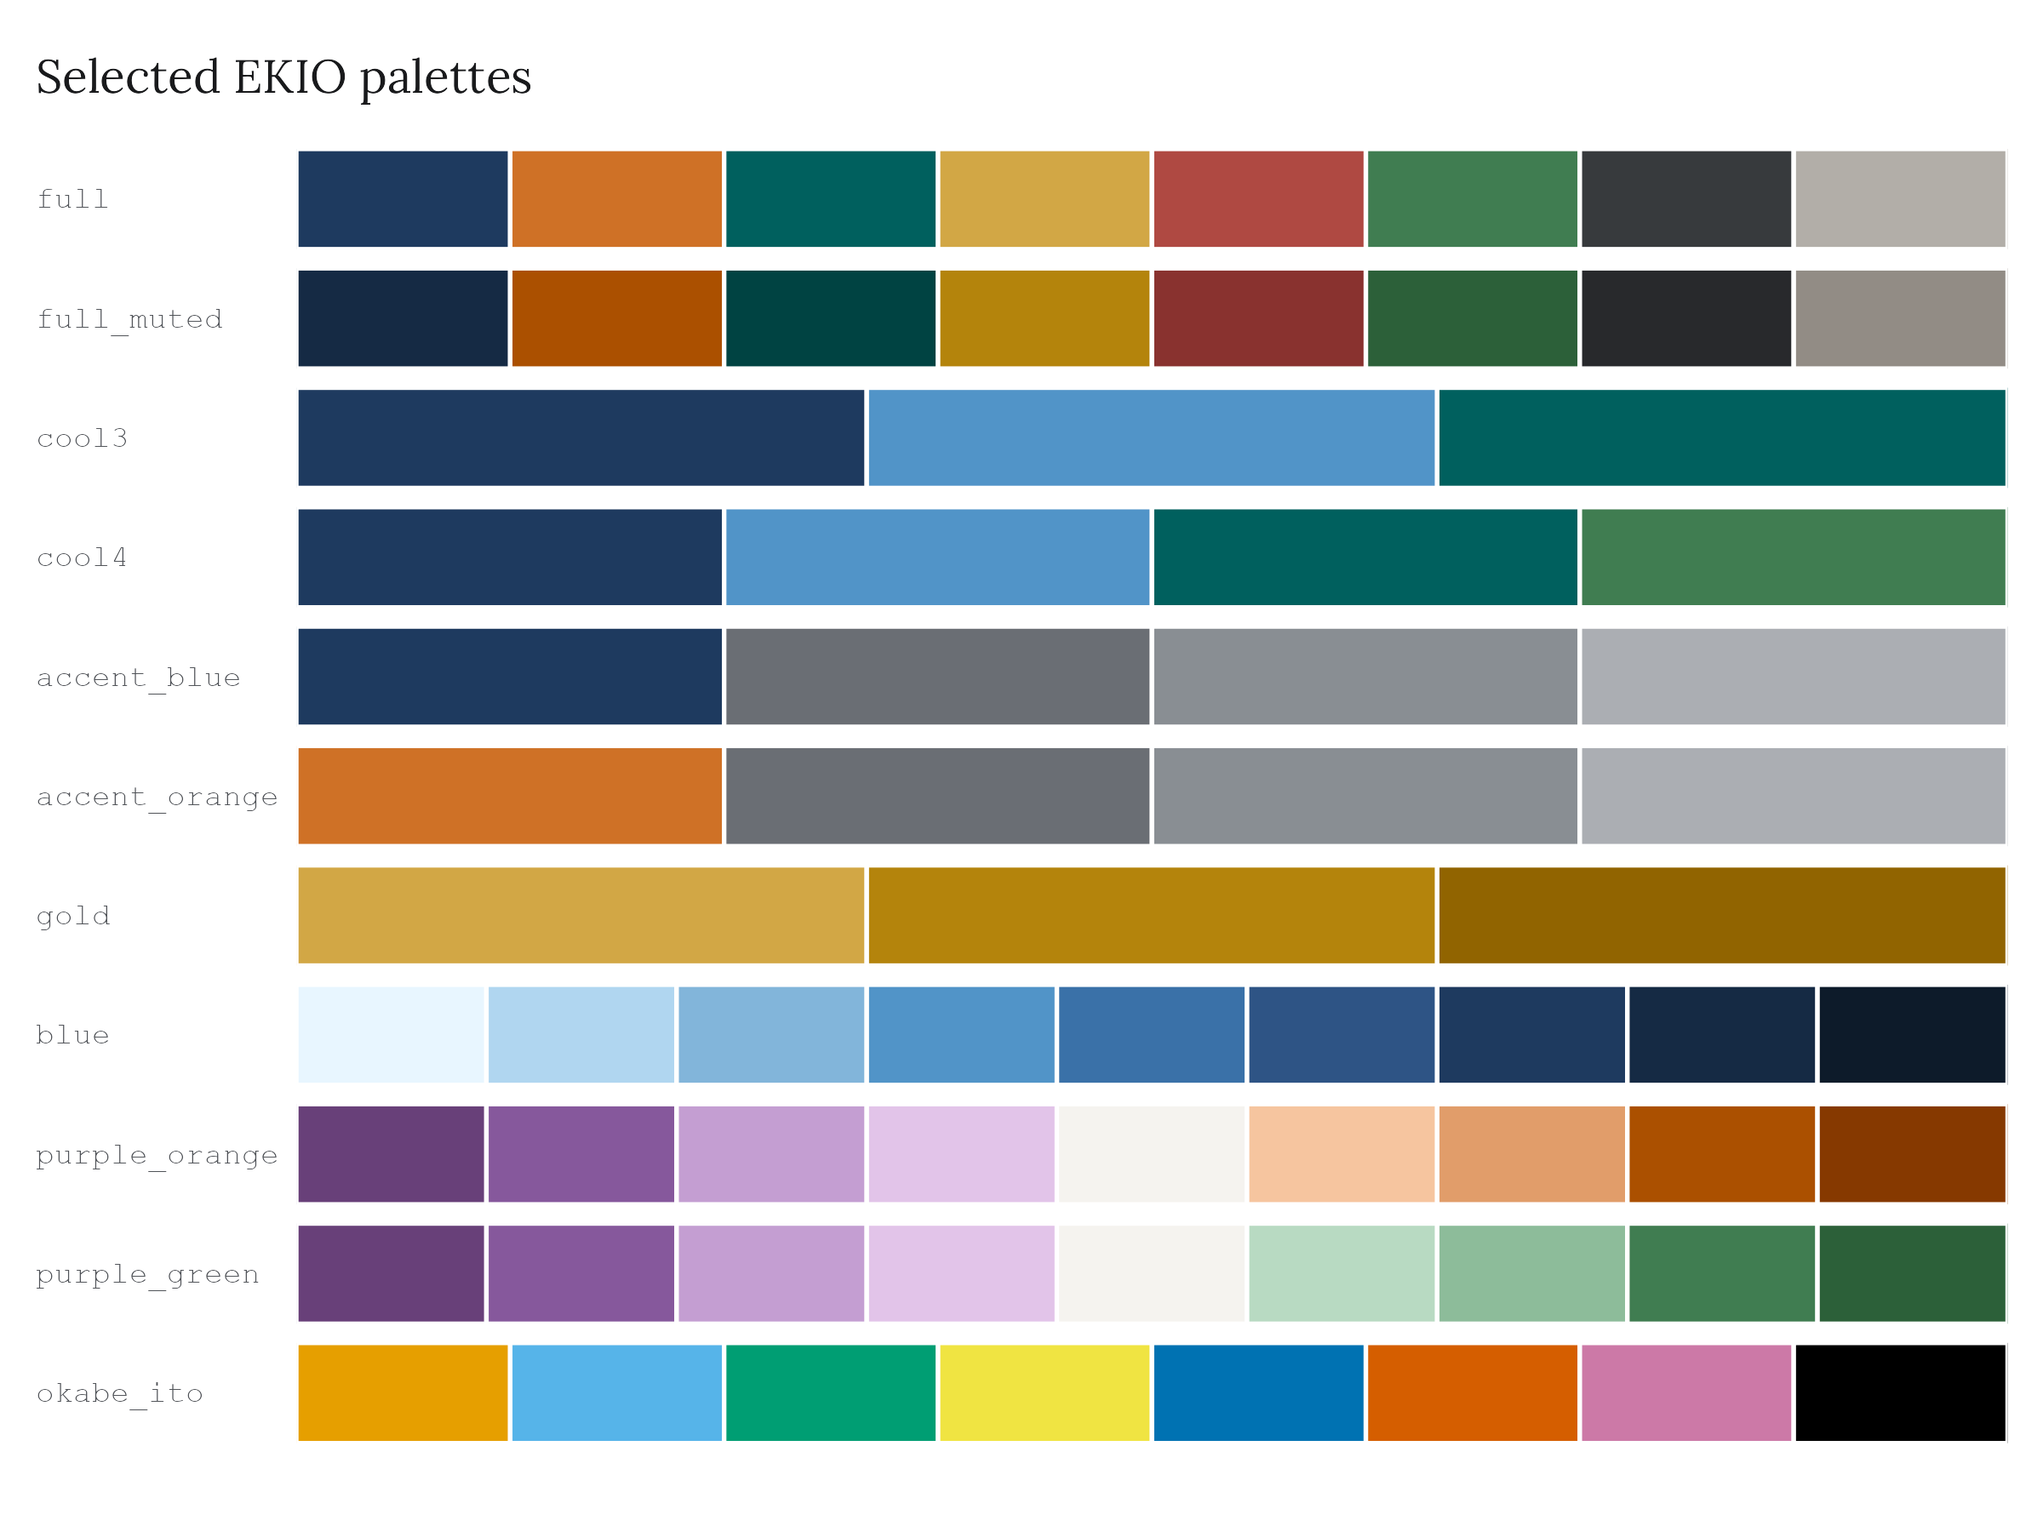
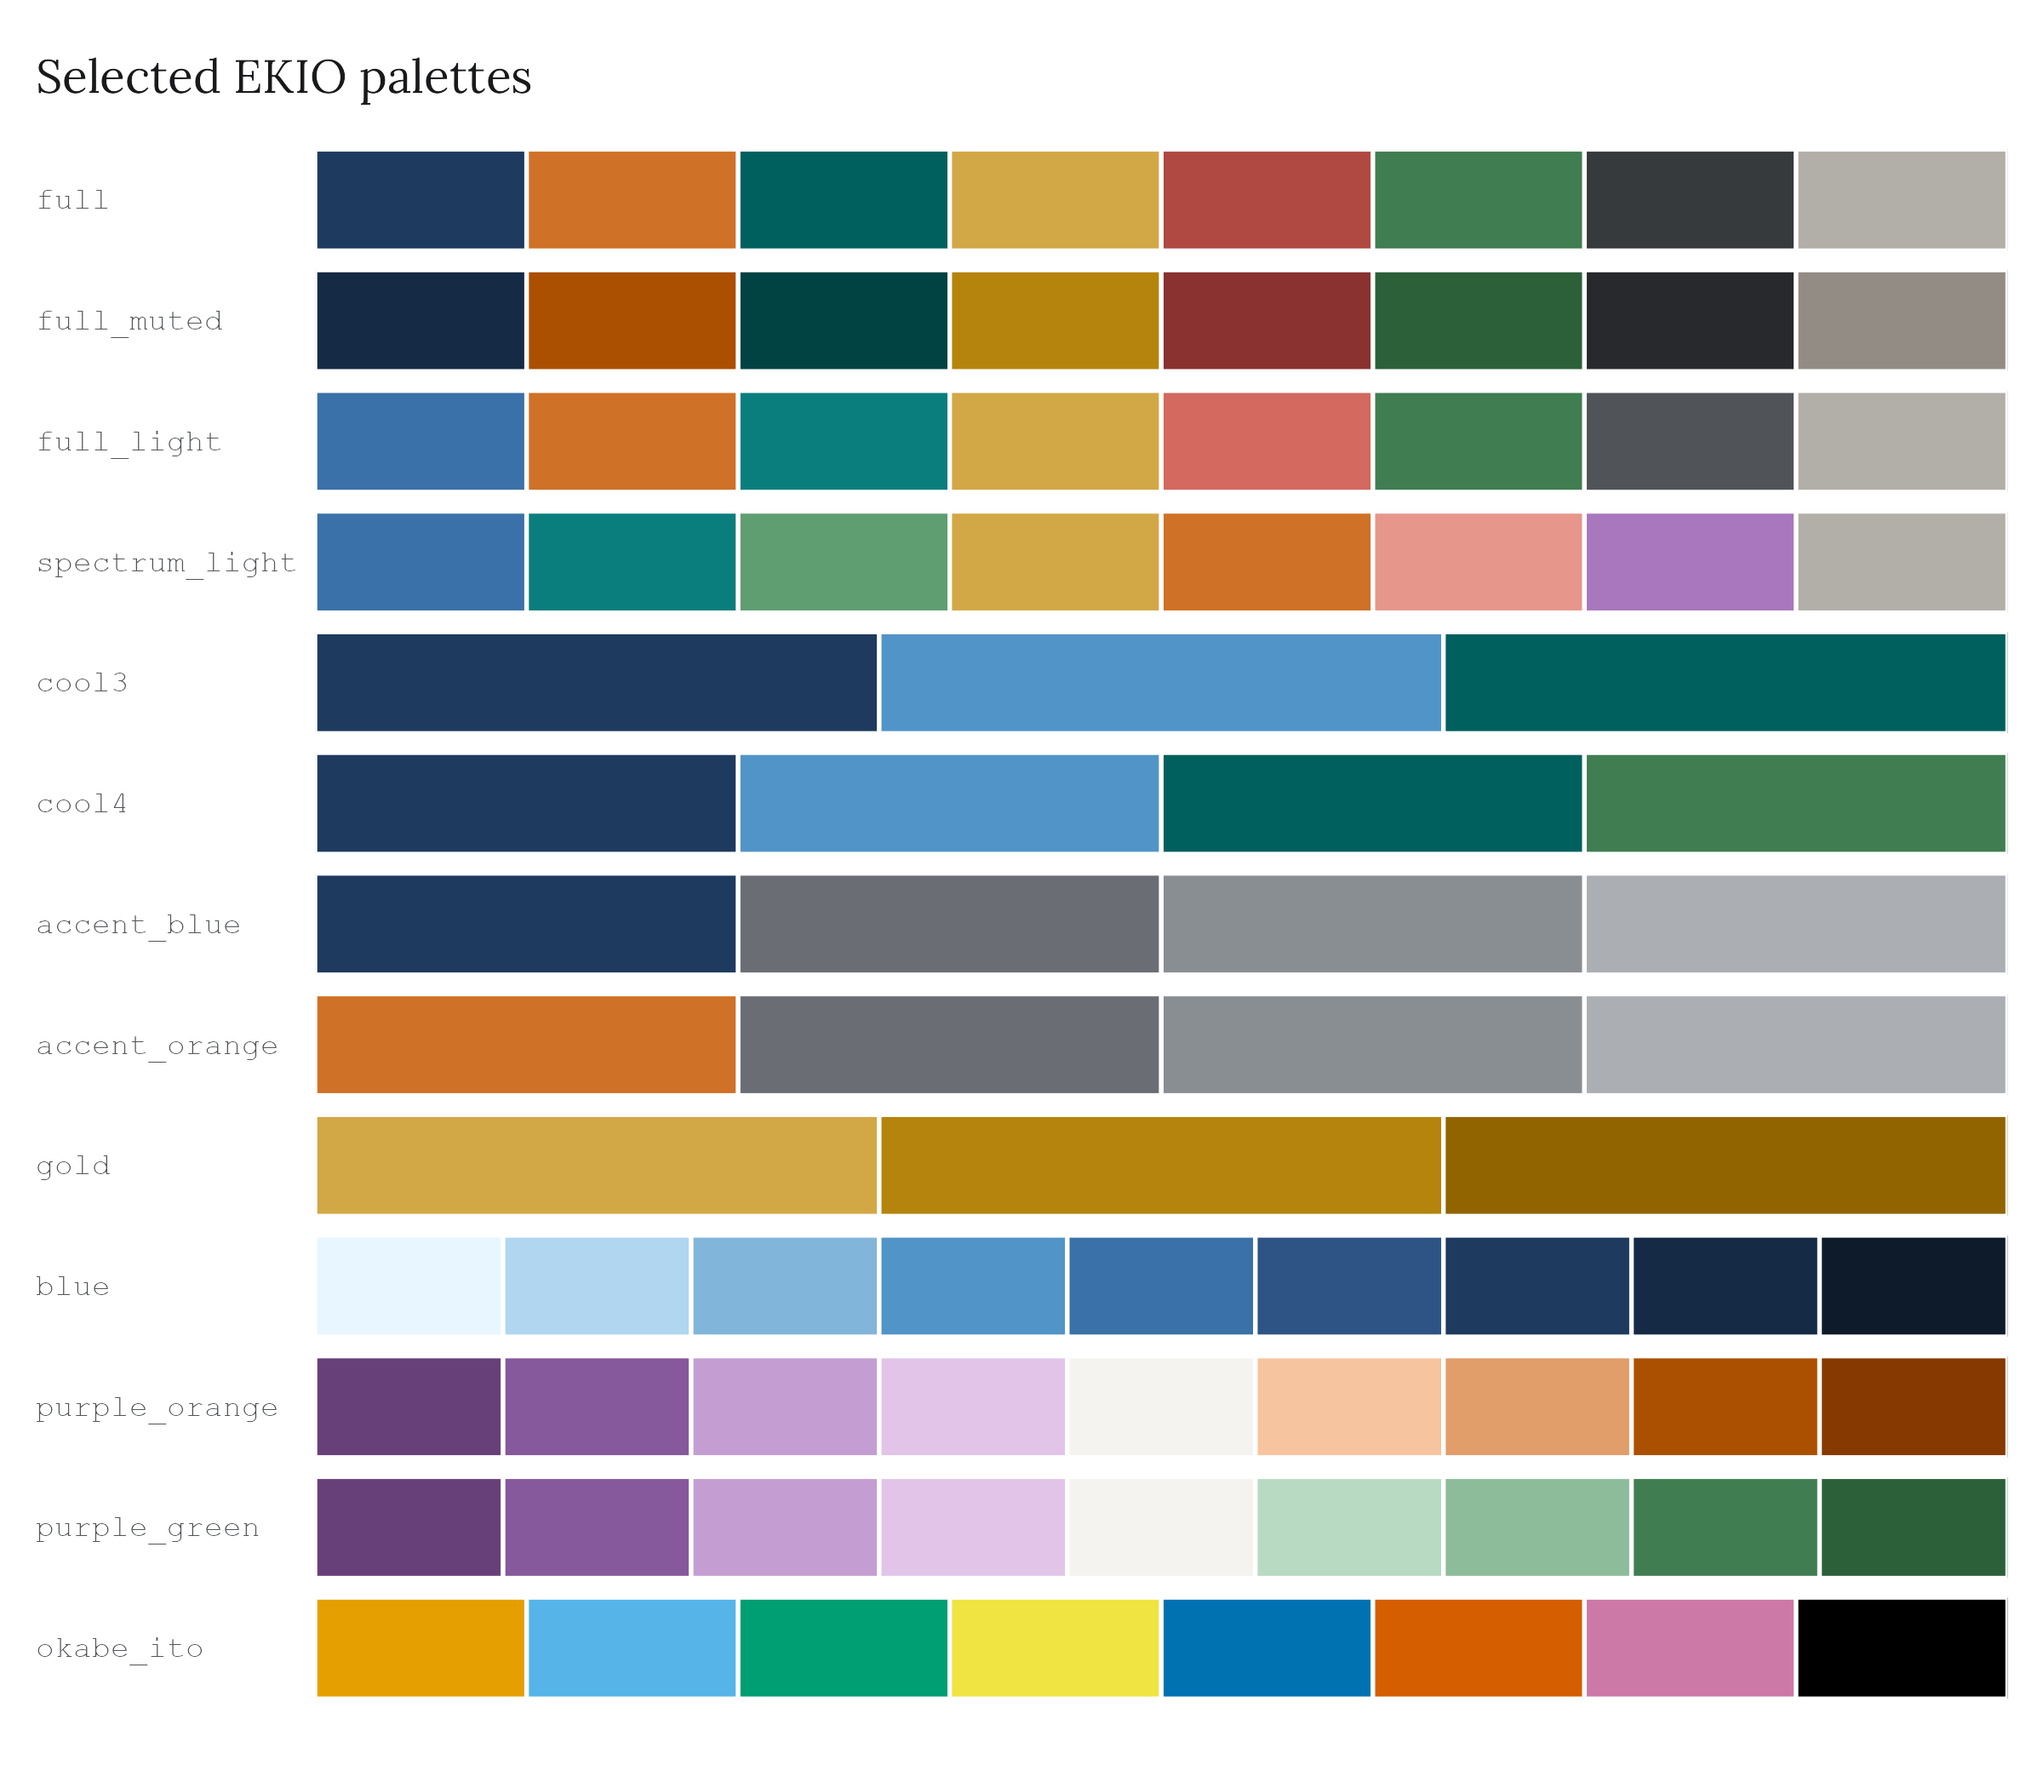
feat(palettes): add full_light and spectrum_light
`full` reads too dark in bars, boxplots and stacked areas. `full_light`
lifts its dark members and keeps its hue order; `spectrum_light` walks
the color wheel from blue to purple for ordered categories and a calmer
look. Both are built from existing scale tokens.

diff --git a/README.md b/README.md
@@ -85,10 +85,13 @@ specification, so a given shade carries the same visual weight in every
 family.
 
 Compact categorical palettes (`"cool3"`, `"cool4"`) cover small groups;
-`"full_muted"` provides a quieter eight-color alternative. Variable-size
-accent palettes keep blue or orange prominent against two to six series.
-The named `"ekio_brand"` palette collects EKIO identity colors for brand
-assets; it is not intended for general data visualization.
+`"full_muted"` provides a quieter eight-color alternative. For bars,
+boxplots, and areas, `"full_light"` lightens `"full"`, and
+`"spectrum_light"` orders light colors around the color wheel.
+Variable-size accent palettes keep blue or orange prominent against two
+to six series. The named `"ekio_brand"` palette collects EKIO identity
+colors for brand assets; it is not intended for general data
+visualization.
 
 ``` r
 ekio_pal()

diff --git a/NEWS.md b/NEWS.md
@@ -16,6 +16,11 @@
 
 ## New features
 
+* Added the `full_light` and `spectrum_light` categorical palettes for filled
+  marks such as bars, boxplots, and areas. `full_light` lifts the dark colors
+  of `full` and keeps its order. `spectrum_light` orders its colors around the
+  color wheel, from blue to purple.
+
 * Added the `purple` brand scale, a nine-step ramp on the same lightness spine
   as the other scales.
 
